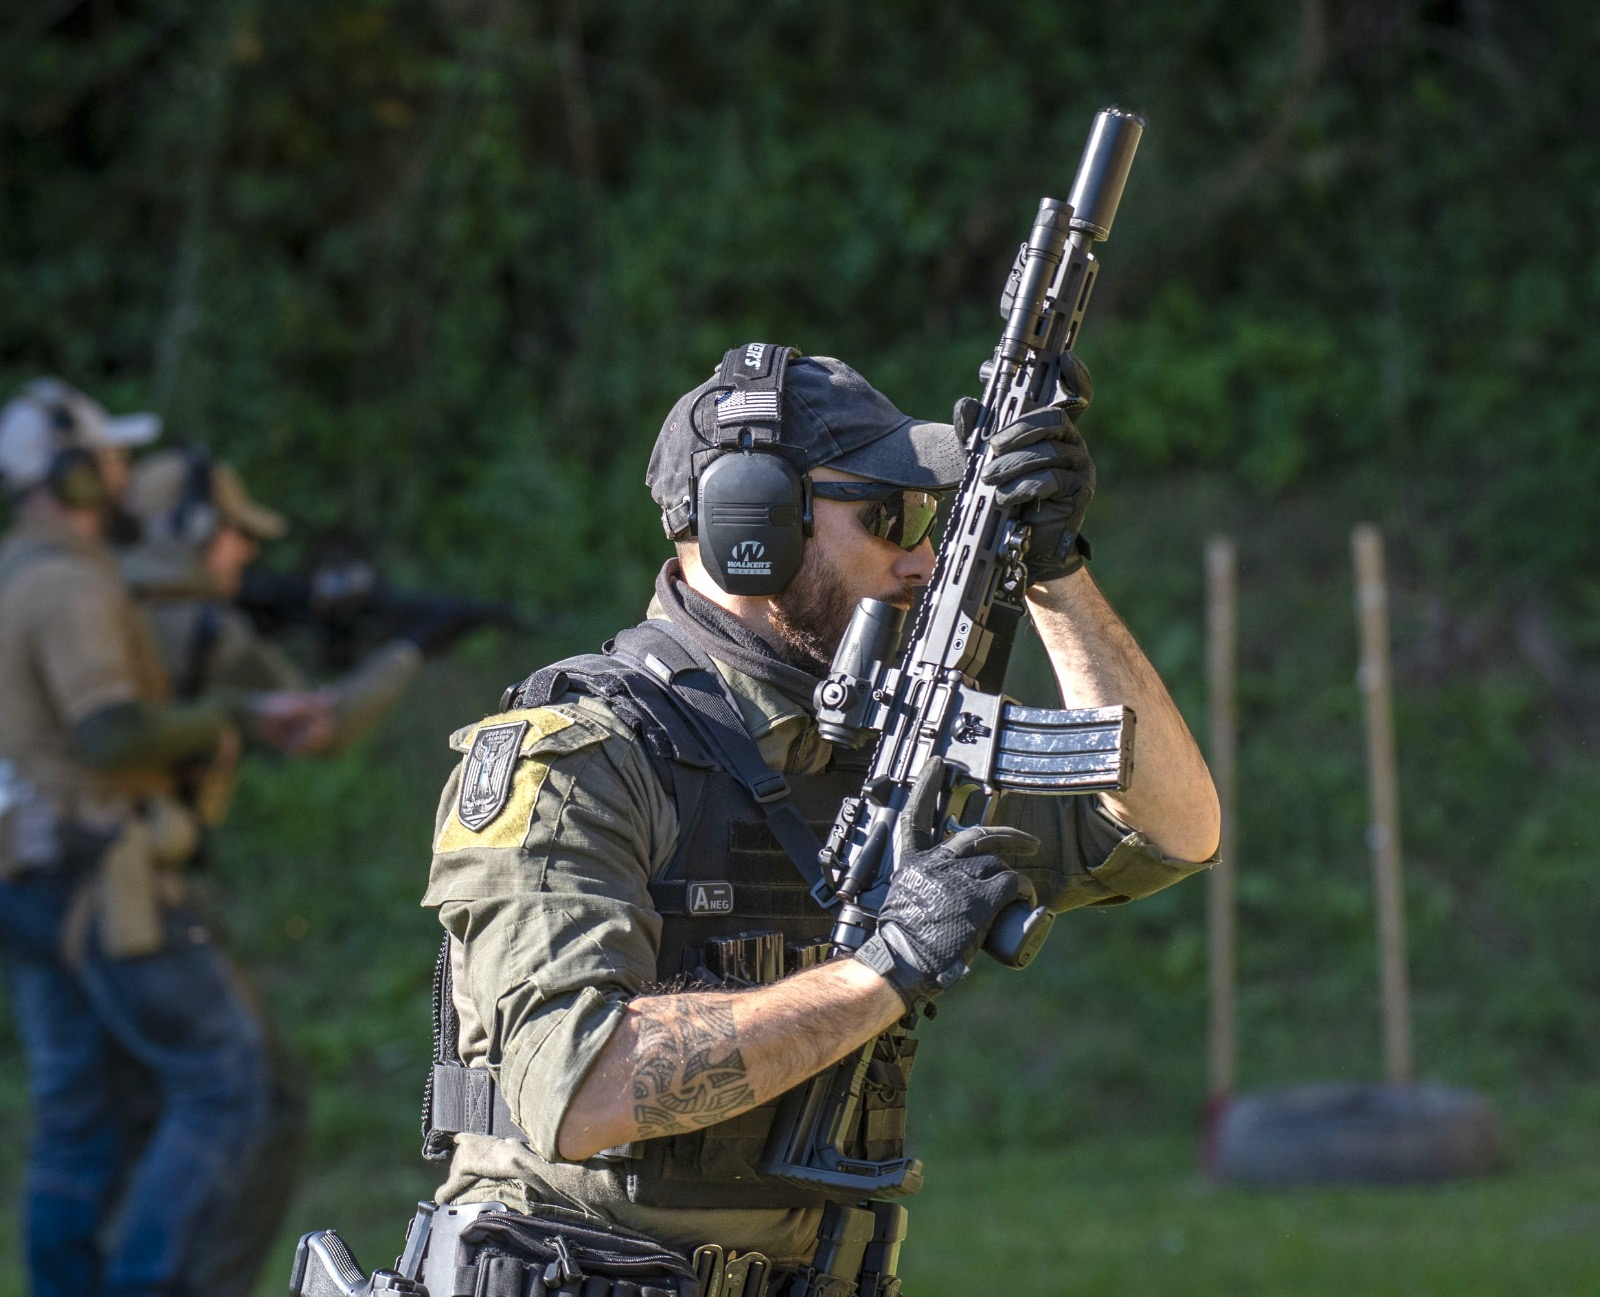
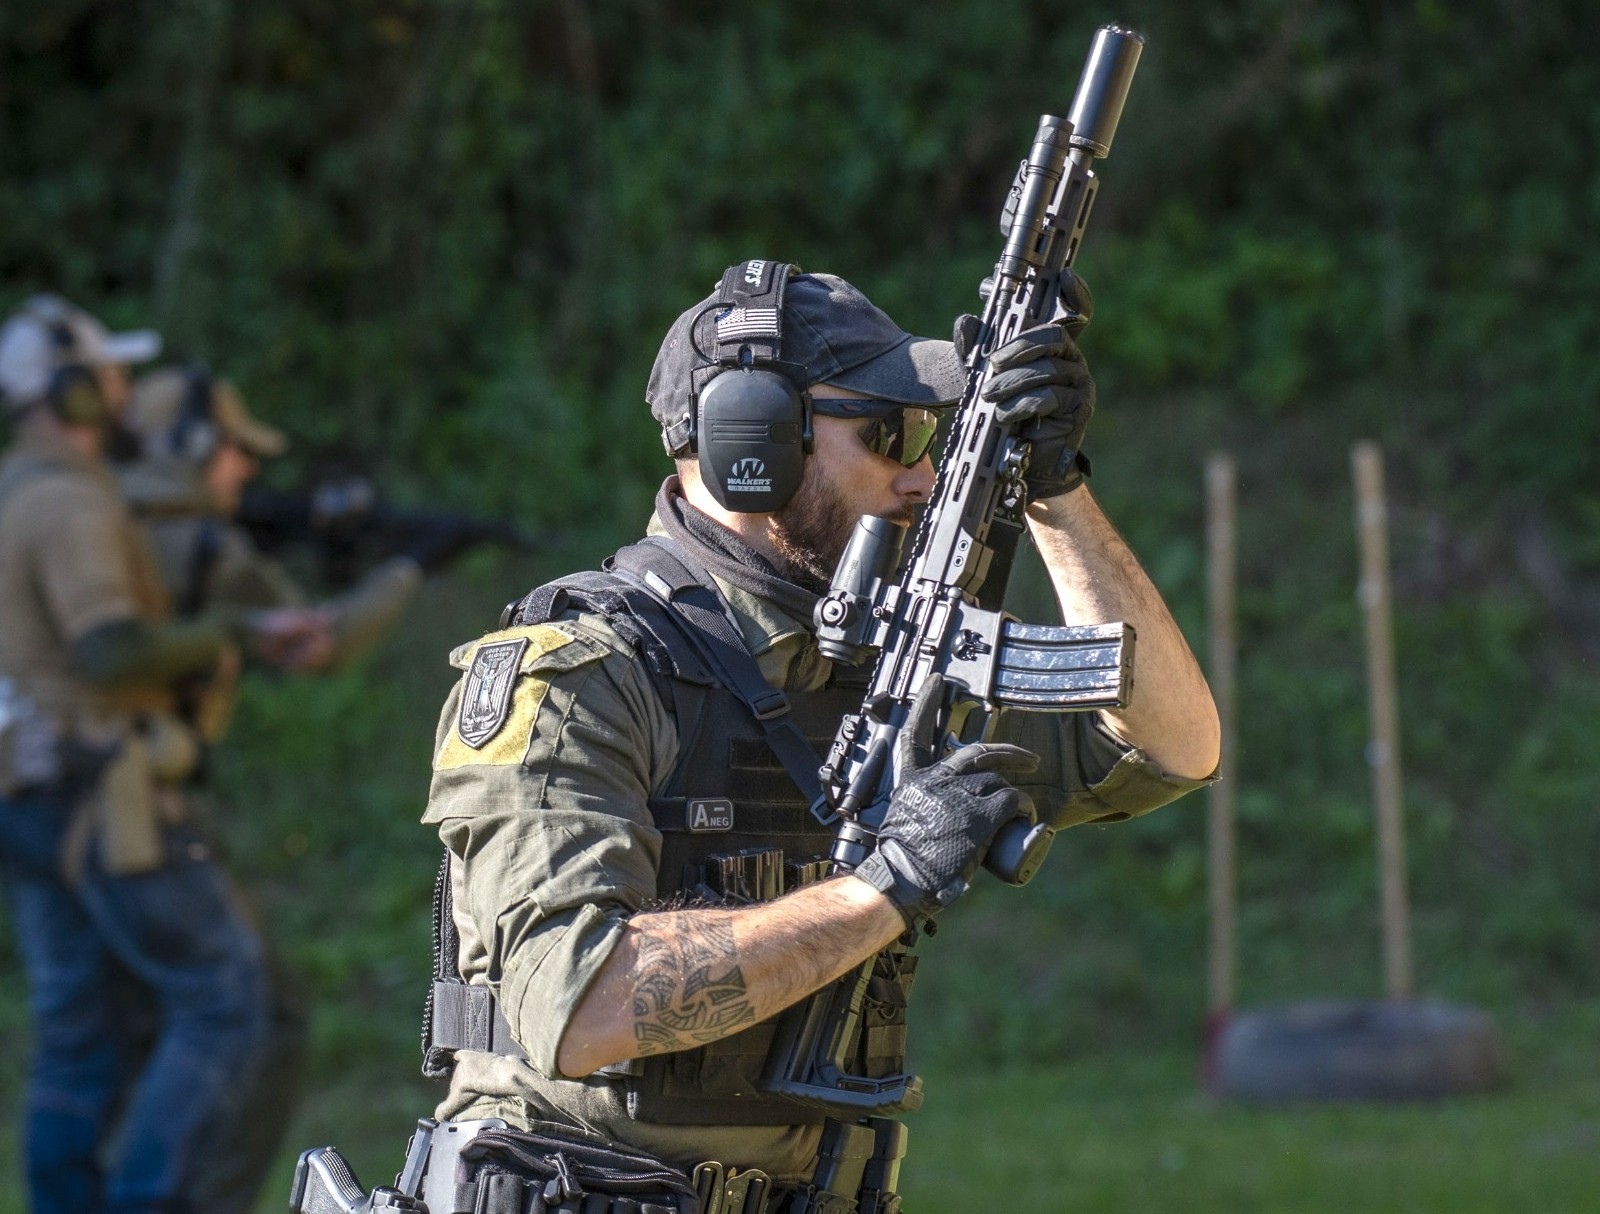
aggiornato immagini

diff --git a/fitg-website/components/IntroFormazione.js b/fitg-website/components/IntroFormazione.js
@@ -4,9 +4,9 @@ import { useState, useEffect, useRef } from 'react'
 import Image from 'next/image'
 
 const paragrafi = [
-    'I Tactical Contest sono competizioni sportive multidisciplinari. Una definizione che, già da sola, rivela la complessità di questa disciplina: non si tratta di eccellere in una singola capacità, ma di integrare tre domini esigenti — la resistenza fisica, la precisione tecnica e la lucidità mentale sotto pressione — in un\'unica prestazione coerente e controllata.',
+    'I Tactical Contest sono competizioni sportive multidisciplinari. Una definizione che, già da sola, rivela la complessità di questa disciplina: non si tratta di eccellere in una singola capacità, ma di integrare tre domini esigenti: la resistenza fisica, la precisione tecnica e la lucidità mentale sotto pressione, in un\'unica prestazione coerente e controllata.',
     'È proprio questa natura multidimensionale a rendere la preparazione atletica non un optional, ma il fondamento su cui costruire ogni altra competenza. Un atleta con un tiro impeccabile ma con una condizione fisica carente arriverà all\'ultimo stage con le braccia che tremano e il respiro corto, compromettendo tutto ciò che ha costruito in anni di pratica al poligono. Al contrario, un atleta fisicamente forte ma privo di una preparazione specifica rischia di sprecare energia preziosa nei movimenti, perdere il controllo posturale durante le transizioni e abbassare la qualità del tiro proprio nel momento in cui conta di più.',
-    'La preparazione nei Tactical Contest richiede dunque un approccio integrato, che lavori in parallelo su forza funzionale, resistenza cardiovascolare, mobilità articolare e coordinazione motoria — il tutto calibrato sulle specificità del gesto tecnico legato all\'uso dell\'arma. Non basta essere atleti completi in senso generale: occorre diventare atleti completi in quel contesto, capaci di mantenere precisione, controllo e sicurezza anche quando il corpo è sotto sforzo massimale.',
+    'La preparazione nei Tactical Contest richiede dunque un approccio integrato, che lavori in parallelo su forza funzionale, resistenza cardiovascolare, mobilità articolare e coordinazione motoria, il tutto calibrato sulle specificità del gesto tecnico legato all\'uso dell\'arma. Non basta essere atleti completi in senso generale: occorre diventare atleti completi in quel contesto, capaci di mantenere precisione, controllo e sicurezza anche quando il corpo è sotto sforzo massimale.',
 ]
 
 function FadeIn({ children, className = '', delay = 0 }) {
@@ -57,7 +57,7 @@ export default function IntroFormazione() {
         <section className="bg-[#1A1A1A]">
             {/* APERTURA — foto + titolo + primo paragrafo */}
             <div className="relative overflow-hidden h-[85vh] md:h-[90vh]">
-                <Image src="/image9.webp" alt="Formazione" fill className="object-cover object-top brightness-[0.4]" priority />
+                <Image src="/formazione1.jpg" alt="Formazione" fill className="object-cover object-top brightness-[0.4]" priority />
                 <div className="absolute inset-0 bg-gradient-to-r from-black/85 via-black/40 to-transparent" />
                 <div className="absolute inset-0 bg-gradient-to-b from-transparent via-transparent to-[#1A1A1A]" />
                 <div className="absolute top-0 left-0 right-0 h-0.5 bg-gradient-to-r from-transparent via-gold to-transparent" />
@@ -92,9 +92,14 @@ export default function IntroFormazione() {
             {/* CONTENUTO */}
             <div className="px-5 md:px-16 py-14 md:py-24">
 
+                <div className="relative w-full h-[260px] md:h-[420px] overflow-hidden border border-gold/20 shadow-[0_20px_50px_-15px_rgba(0,0,0,0.6)] mb-12 md:mb-16">
+                    <Image src="/formazione4.JPG" alt="" fill className="object-cover object-center brightness-[0.55]" />
+                    <div className="absolute inset-0 bg-gradient-to-t from-[#1A1A1A]/40 to-transparent" />
+                </div>
+
                 {/* Paragrafo 2 */}
-                <FadeIn className="mb-12 md:mb-16">
-                    <p className="font-inter text-[17px] md:text-[22px] text-[#eee] leading-[1.7] max-w-3xl border-l-2 border-gold pl-5 md:pl-7">
+                <FadeIn className="mb-12 md:mb-16 flex justify-end">
+                    <p className="font-inter text-[16px] md:text-[19px] text-[#eee] leading-[1.7] max-w-3xl border-r-2 border-gold pr-5 md:pr-7">
                         {paragrafi[1]}
                     </p>
                 </FadeIn>
@@ -102,10 +107,10 @@ export default function IntroFormazione() {
                 {/* Img1 + Img2 */}
                 <FadeIn className="flex justify-center gap-5 md:gap-8 mb-12 md:mb-16">
                     <div className="relative w-[46%] md:w-[340px] h-[240px] md:h-[320px] overflow-hidden border border-gold/20 shadow-[0_20px_40px_-15px_rgba(0,0,0,0.6)]">
-                        <Image src="/image10.webp" alt="" fill className="object-cover object-top brightness-[0.6]" />
+                        <Image src="/formazione2.jpg" alt="" fill className="object-cover object-top brightness-[0.6]" />
                     </div>
                     <div className="relative w-[46%] md:w-[340px] h-[240px] md:h-[320px] overflow-hidden border border-gold/20 shadow-[0_20px_40px_-15px_rgba(0,0,0,0.6)] mt-8 md:mt-14">
-                        <Image src="/image11.webp" alt="" fill className="object-cover object-top brightness-[0.6]" />
+                        <Image src="/formazione3.JPG" alt="" fill className="object-cover object-top brightness-[0.6]" />
                     </div>
                 </FadeIn>
 
@@ -114,10 +119,6 @@ export default function IntroFormazione() {
                     <p className="font-inter text-[16px] md:text-[19px] text-[#eee] leading-[1.75] max-w-3xl border-l-2 border-gold pl-5 md:pl-7 mb-8 md:mb-10">
                         {paragrafi[2]}
                     </p>
-                    <div className="relative w-full h-[260px] md:h-[420px] overflow-hidden border border-gold/20 shadow-[0_20px_50px_-15px_rgba(0,0,0,0.6)]">
-                        <Image src="/image7.jpeg" alt="" fill className="object-cover object-center brightness-[0.55]" />
-                        <div className="absolute inset-0 bg-gradient-to-t from-[#1A1A1A]/40 to-transparent" />
-                    </div>
                 </FadeIn>
 
             </div>

diff --git a/fitg-website/components/StoriaStickyScroll.js b/fitg-website/components/StoriaStickyScroll.js
@@ -7,20 +7,14 @@ const storiaSteps = [
   {
     num: '01',
     titolo: 'Cosa sono i Tacticon?',
-    img: '/storiasticky1.JPG',
+    img: '/tact2.JPG',
     testo: 'La nostra disciplina nasce dall\'incontro tra militari, operatori della sicurezza e sportivi che, dopo anni di pratica sul campo, hanno deciso di dar vita a una disciplina capace di mettere alla prova l\'atleta a 360 gradi: percorsi con ostacoli da superare di corsa, prove di forza e resistenza attraverso il trasporto di pesi e carichi, e — lungo il tracciato e in prossimità del traguardo — momenti di tiro tattico/operativo, dove precisione, tecnica e sangue freddo diventano decisivi nel colpire bersagli con armi corte e lunghe da diverse posizioni.',
   },
   {
     num: '02',
     titolo: 'Una Disciplina Diffusa nel Mondo',
-    img: '/storiasticky2.JPG',
-    testo: 'Competizioni di questo tipo sono ormai diffuse in tutto il mondo. Le nostre si distinguono per l\'attenzione particolare al mindset: la selezione dei bersagli e l\'esecuzione delle procedure vengono valutate anche sotto pressione, perché prima ancora della preparazione fisica conta la capacità di mantenere lucidità mentale.',
-  },
-  {
-    num: '03',
-    titolo: 'Il Nostro Staff Tecnico',
-    img: '/storiasticky3.JPG',
-    testo: 'Il nostro staff tecnico è composto prevalentemente da operatori della sicurezza, pubblica e privata, militari e atleti di sport di endurance.',
+    img: '/tact3.JPG',
+    testo: 'Competizioni di questo tipo sono ormai diffuse in tutto il mondo. Le nostre si distinguono per l\'attenzione particolare al mindset: la selezione dei bersagli e l\'esecuzione delle procedure vengono valutate anche sotto pressione, perché prima ancora della preparazione fisica conta la capacità di mantenere lucidità mentale.\'Il nostro staff tecnico è composto prevalentemente da operatori della sicurezza, pubblica e privata, militari e atleti di sport di endurance.',
   },
 ]
 
@@ -73,7 +67,7 @@ export default function StoriaStickyScroll() {
     <section className="bg-[#1A1A1A]">
       {/* APERTURA — si fonde con la sezione, niente bordo netto */}
       <div className="relative overflow-hidden h-[70vh] md:h-[80vh]">
-        <Image src="/image11.webp" alt="Tactical Contest" fill className="object-cover brightness-[0.4]" priority />
+        <Image src="/tact1.JPG" alt="Tactical Contest" fill className="object-cover brightness-[0.4]" priority />
         <div className="absolute inset-0 bg-gradient-to-r from-black/85 via-black/40 to-transparent" />
         <div className="absolute inset-0 bg-gradient-to-b from-transparent via-transparent to-[#1A1A1A]" />
         <div className="absolute top-0 left-0 right-0 h-0.5 bg-gradient-to-r from-transparent via-gold to-transparent" />
@@ -156,21 +150,6 @@ export default function StoriaStickyScroll() {
           <div className="px-5 md:px-16 py-8 md:py-12 max-w-2xl md:mx-auto">
             <h3 className="font-oswald font-bold text-white text-[22px] md:text-[28px] mb-4 leading-tight">{storiaSteps[1].titolo}</h3>
             <p className="font-inter text-[14px] md:text-[16px] text-[#ccc] leading-relaxed">{storiaSteps[1].testo}</p>
-          </div>
-        </div>
-
-        {/* Card 3 — object-top */}
-        <div className="border-t border-gold/10">
-          <div className="relative h-[420px] md:h-[520px] overflow-hidden">
-            <Image src={storiaSteps[2].img} alt={storiaSteps[2].titolo} fill className="object-cover object-top brightness-[0.55]" />
-            <div className="absolute inset-0 bg-gradient-to-t from-[#1A1A1A] to-transparent" />
-            <div className="absolute bottom-4 left-5 md:left-10 font-oswald font-bold text-gold text-[12px] md:text-[14px] tracking-[3px]">
-              {storiaSteps[2].num} / 03
-            </div>
-          </div>
-          <div className="px-5 md:px-16 py-8 md:py-12 max-w-2xl md:mx-auto">
-            <h3 className="font-oswald font-bold text-white text-[22px] md:text-[28px] mb-4 leading-tight">{storiaSteps[2].titolo}</h3>
-            <p className="font-inter text-[14px] md:text-[16px] text-[#ccc] leading-relaxed">{storiaSteps[2].testo}</p>
           </div>
         </div>
       </div>

diff --git a/fitg-website/app/regole/page.js b/fitg-website/app/regole/page.js
@@ -1,58 +1,7 @@
-import Image from 'next/image'
 import CategorieAccordion from '@/components/CategorieAccordion'
-import SectionLabel from '@/components/SectionLabel'
 import StoriaStickyScroll from '@/components/StoriaStickyScroll'
 
 export const metadata = { title: 'Tactical Games — FITG' }
-
-const categorie = [
-    { nome: 'Divisione Élite', desc: 'Descrizione categoria da inserire.' },
-    { nome: 'Divisione Tattica', desc: 'Descrizione categoria da inserire.' },
-    { nome: 'Divisione Standard', desc: 'Descrizione categoria da inserire.' },
-    { nome: 'Divisione a Squadre', desc: 'Descrizione categoria da inserire.' },
-    { nome: 'Divisione Air Soft', desc: 'Descrizione categoria da inserire.' },
-]
-
-const categorieAttrezzatura = [
-    'Arma lunga (fucile o carabina)',
-    'Arma corta (pistola)',
-    'Gilet tattico zavorrabile',
-    'Occhiali balistici — obbligatori',
-    'Cuffie antirumore — obbligatorie',
-    'Cinghia sul fucile — obbligatoria in tutti gli stage',
-]
-
-const giornoCompetizione = [
-    { num: '01', titolo: 'CHECK-IN', desc: 'Ispezione fucile, pistola e gilet tattico. Completare prima del briefing.' },
-    { num: '02', titolo: 'BRIEFING', desc: 'Briefing sicurezza obbligatorio. Assenza = DQ immediata.' },
-    { num: '03', titolo: 'STAGE', desc: 'Numero stage e struttura da definire. Descrizione da inserire.' },
-    { num: '04', titolo: 'RISULTATI', desc: 'Periodo di arbitraggio dopo gli stage. Risultati definitivi.' },
-]
-
-const infrazioniSqualifica = [
-    {
-        titolo: 'Violazioni di sicurezza',
-        icon: '⚠',
-        items: [
-            'Sparo non sicuro',
-            'Superare piano 180°',
-            'Caduta arma carica',
-            'Puntare arma a persona',
-            'Munizioni vietate',
-        ],
-    },
-    {
-        titolo: 'Violazioni di condotta',
-        icon: '✕',
-        items: [
-            'Alcol o droghe',
-            'Comportamento antisportivo',
-            'Alterare bersagli o attrezzatura',
-            'Mancare briefing',
-            'Sparare bersagli fuori gara',
-        ],
-    },
-]
 
 export default function RegolePage() {
     return (

diff --git a/fitg-website/app/page.js b/fitg-website/app/page.js
@@ -12,14 +12,14 @@ const sezioni = [
     title: 'Regolamento ufficiale dei Tacticon',
     desc: 'Consulta il regolamento completo delle competizioni FITC. Categorie, prove, sistemi di punteggio e norme di sicurezza: tutto quello che devi sapere per partecipare.',
     href: '/regole#rules',
-    img: '/image2.jpeg',
+    img: '/home3.JPG',
   },
   {
     label: 'FORMAZIONE',
     title: 'Formazione e preparazione atletica',
     desc: 'Piani di allenamento, esercizi consigliati e aree attrezzate per prepararti al meglio. Fitness funzionale e tiro di precisione: due discipline, un unico obiettivo.',
     href: '/formazione',
-    img: '/image3.jpeg',
+    img: '/home4.JPG',
   },
 ]
 
@@ -33,7 +33,7 @@ export default function HomePage() {
       {/* HERO */}
       <section className="relative overflow-hidden h-[520px] md:h-[680px]">
         <Image
-          src="/forza.jpeg"
+          src="/home1.JPG"
           alt="Hero FITC"
           fill
           className="object-cover object-top brightness-[0.5]"
@@ -92,7 +92,7 @@ export default function HomePage() {
             </Link>
           </div>
           <div className="relative min-h-[220px] md:min-h-auto overflow-hidden">
-            <Image src="/image12.webp" alt="Chi Siamo" fill className="object-cover object-top md:object-center brightness-[0.5]" />
+            <Image src="/home2.JPG" alt="Chi Siamo" fill className="object-cover object-top brightness-[0.5]" />
             <div className="absolute inset-0 bg-black/30" />
             <div className="absolute left-0 top-0 bottom-0 w-1 bg-gold" />
             <div className="absolute inset-0 flex items-center justify-center">

diff --git a/fitg-website/components/Footer.js b/fitg-website/components/Footer.js
@@ -53,8 +53,8 @@ export default function Footer() {
                         {[
                             { label: 'Home', href: '/' },
                             { label: 'Tactical Contest', href: '/regole' },
-                            { label: 'Categorie', href: '/categorie' },
                             { label: 'Formazione', href: '/formazione' },
+                            { label: 'Aree Di Allenamento', href: '/categorie' },
                             { label: 'Contatti', href: '/contatti' },
                         ].map((l) => (
                             <Link key={l.href} href={l.href} className="block font-inter text-sm text-[#555] mb-2.5 hover:text-gold transition-colors">
